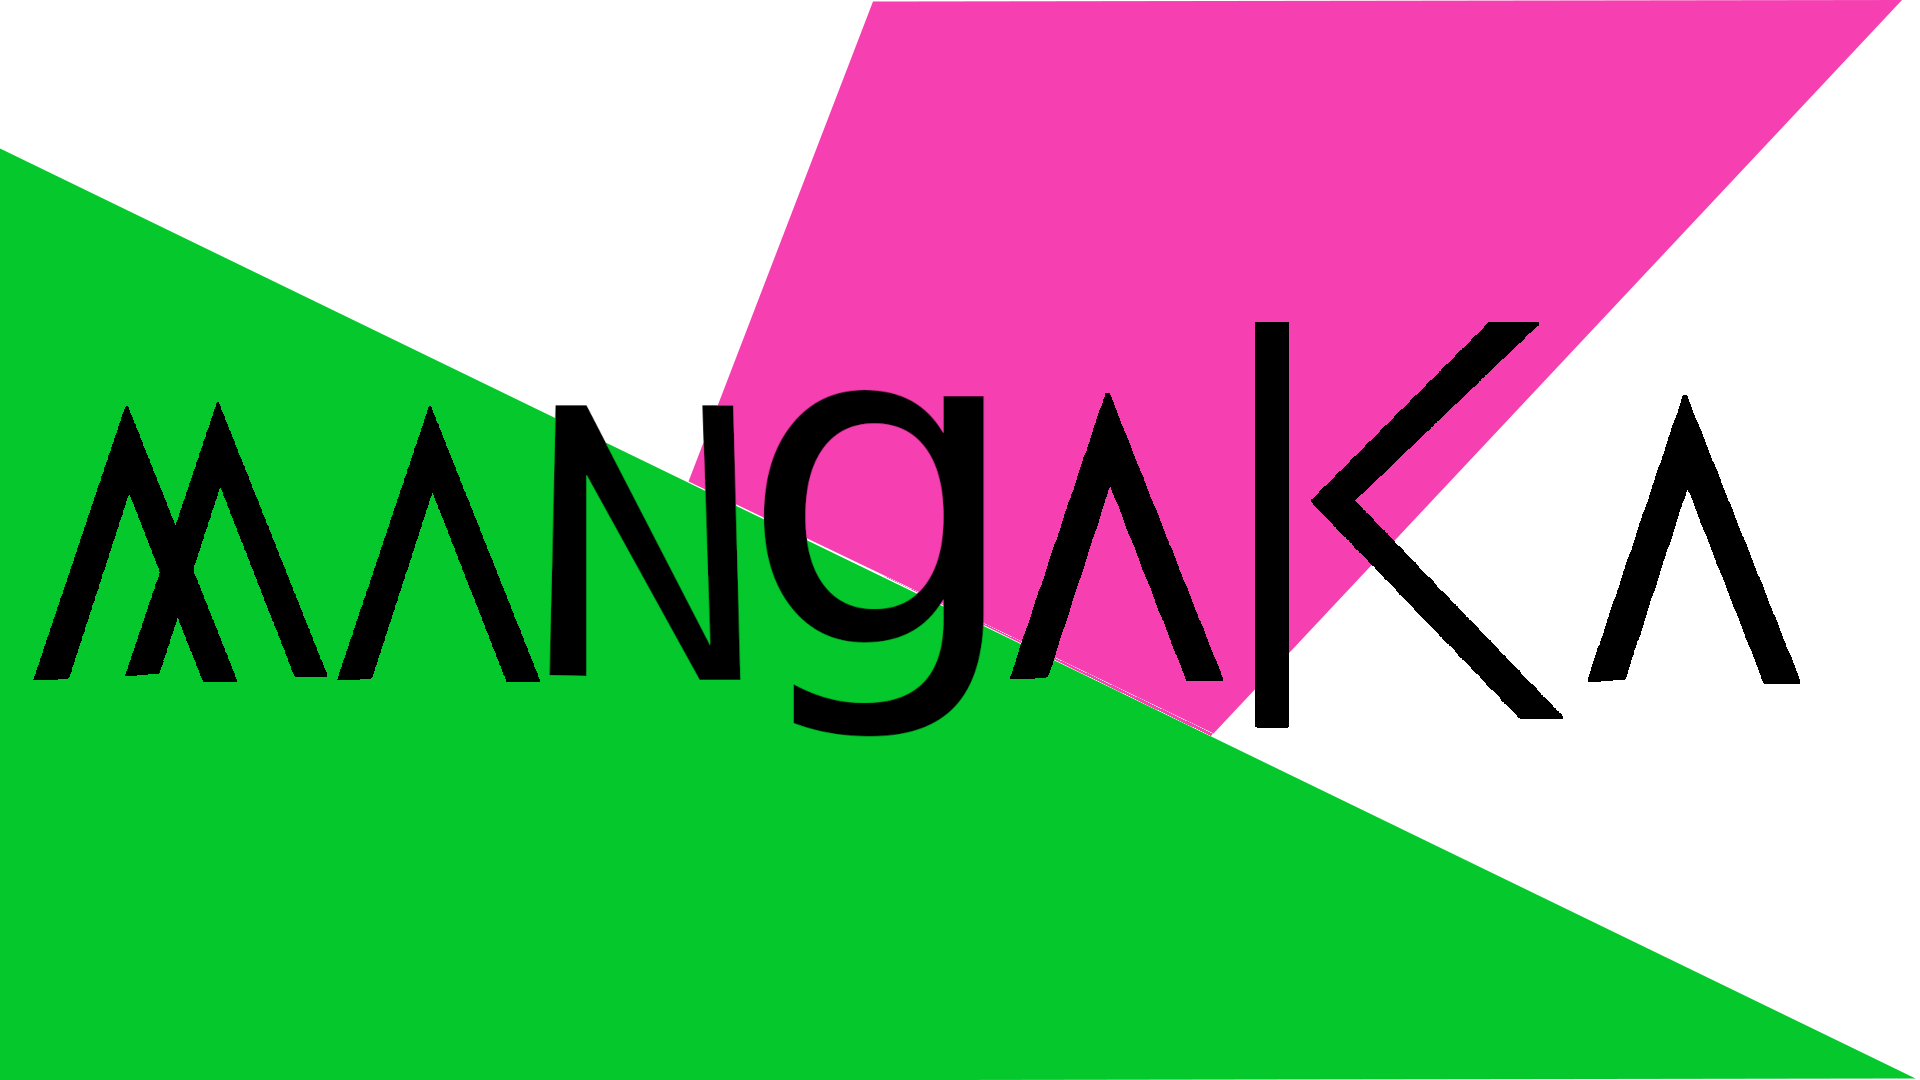
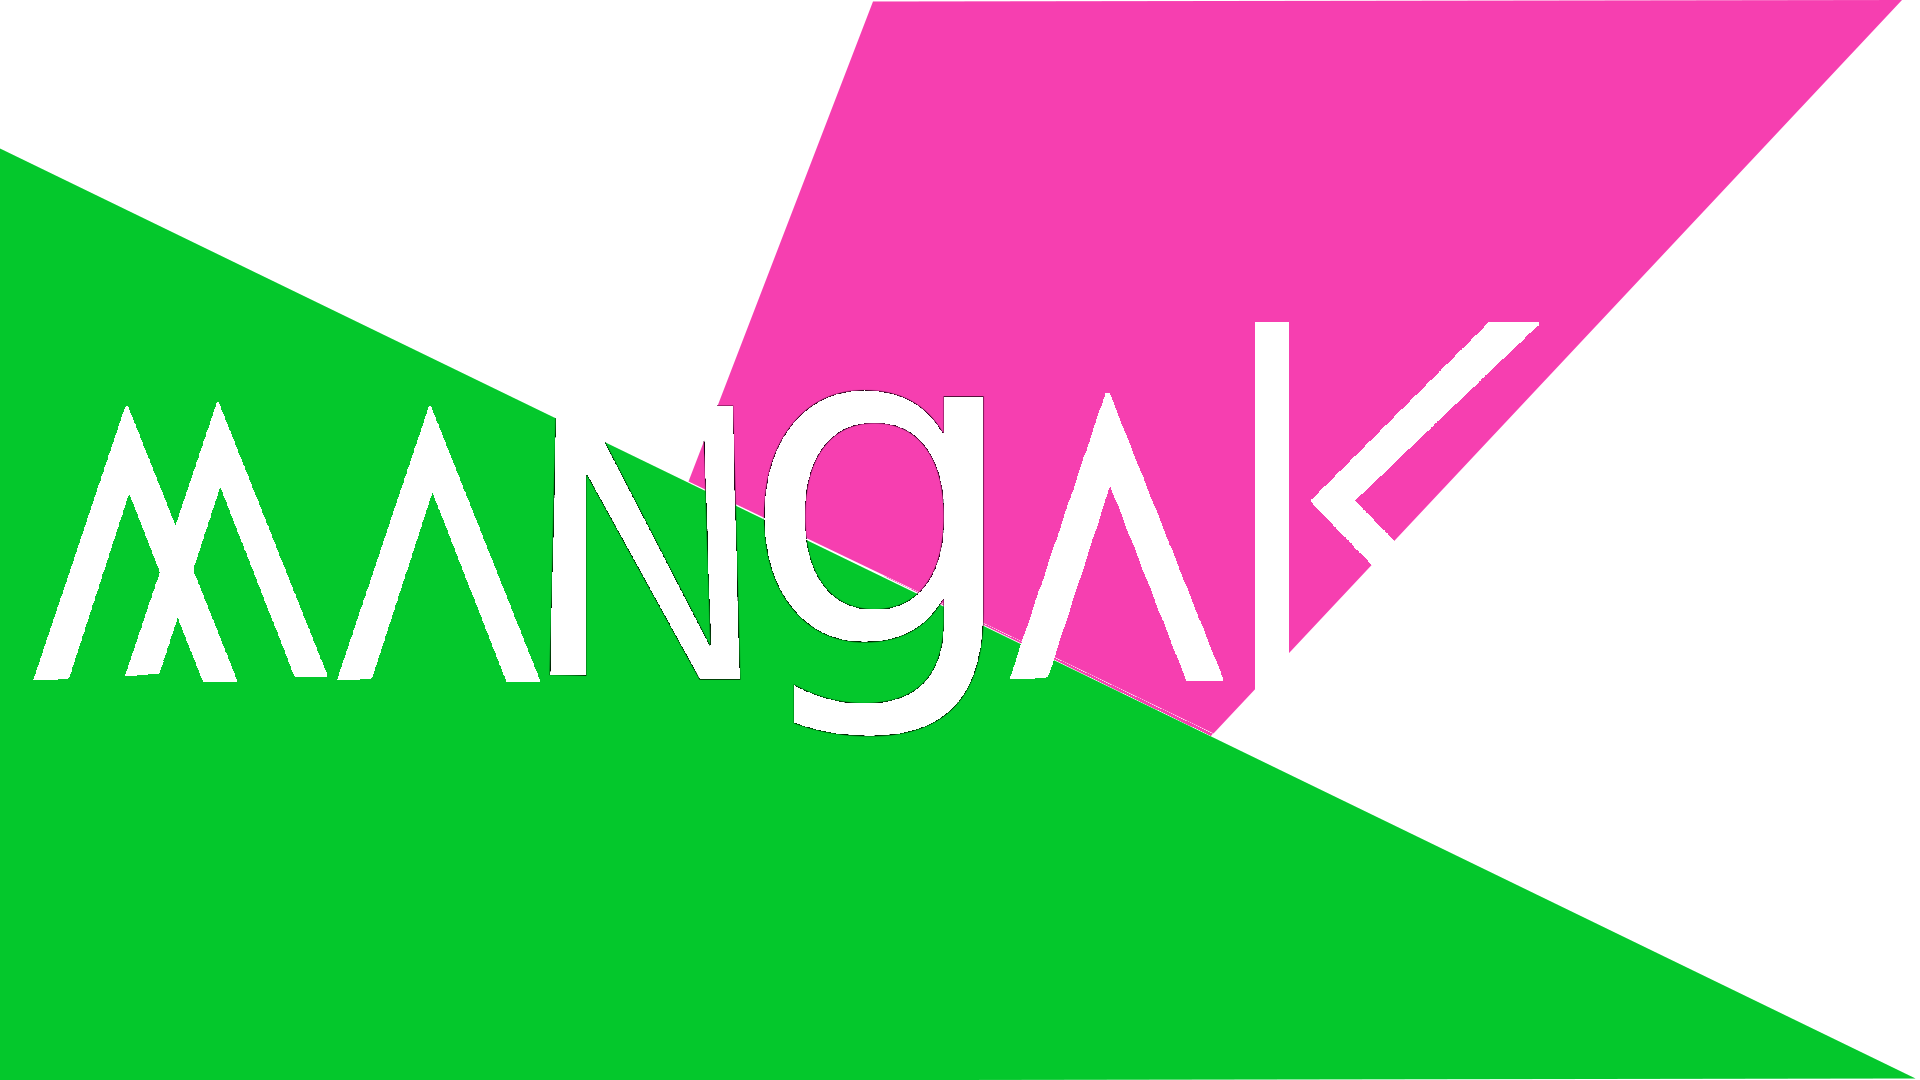
atualização f 1.0
f significa inicio do fim, em breve será componetizado em react.

Changed region(s): [[0.0, 0.275, 0.9375, 0.7028]]

diff --git a/js/index.js b/js/index.js
@@ -1,5 +1,5 @@
 //      LINK PROJECT by @KING.
-const version = 'j experimental 4.2';
+const version = 'f 1.0';
 const lugar = window.document.querySelector('#my_way');
 const local = window.document.querySelector('#pjct');
 const address = ['tsuki-ga-michibiku-isekai-douchuu','kimi-to-boku-no-saigo-no-senjou-aruiwa-sekai-ga-hajimaru-seisen','the-tutorial-tower-of-the-advanced-player','fukushuu-wo-koinegau-saikyou-yuusha-wa-yami-no-chikara-de-senmetsu-musou-suru','black-kanojo','black-clover','apocalyptic-super-system','hataraku-maou-sama','gods-reborn','imamade-ichido-mo-onnaatsukai-sareta-koto-ga-nai-onna-kishi-wo-onnaatsukai-suru-manga','is-there-an-empty-room','a-world-that-i-rule','kage-no-jitsuryokusha-ni-naritakute','koi-ka-mahou-ka-wakaranai','my-girlfriend-is-a-zombie-virus-girlfriend','my-yandere-girlfriend-wont-let-me-rest-in-peace','negai-o-kanaete-moraou-to-akuma-o-shoukan-shitakedo-kawaikattanode-kekkonshimashita-akuma-no-niidzuma','parallel-paradise','rakudai-kenja-no-gakuin-musou-nidome-no-tense-s-rank-cheat-majutsushi-boukenroku','reincarnated-as-an-aristocrat-with-an-appraisal-skill','tensei-kizoku-no-isekai-boukenroku-jichou-wo-shiranai-kamigami-no-shito','strongest-hired-son-in-law','son-in-law-above-them-all','tsumi-to-kai','the-way-to-protect-the-female-lead-s-older-brother','rise-of-the-demon-king','uragirareta-s-rank-boukensha-no-ore-wa-ai-suru-dorei-no-kanojora-to-tomo-ni-dorei-dake-no-harem-guild-wo-tsukuru','tantei-wa-mou-shindeiru','kanojo-mo-kanojo','chainsaw-man','mahouka-koukou-no-rettousei-nyuugaku-hen','i-swear-that-i-love-you','jungle-juice','houkago-no-goumon-shoujo','koibito-wo-netorare-yuusha-party-kara-tsuihou-sa-retakedo-ex-skill-kotei-dameeji-ni-mezamete-muteki-no-sonzai-ni-saa-fukushuu-o-hajimeyou','naze-boku-no-sekai-wo-daremo-oboeteinai-no-ka','my-wife-is-actually-the-emperor','a-pervert-s-daily-life-a-perverts-daily-life','solo-leveling','martial-peak','my-wife-is-a-demon-queen','the-beginning-after-the-end','kaifuku-jutsushi-yarinaoshi','building-owner','giselle-s-blood','i-the-strongest-demon-have-regained-my-youth','mushoku-tensei-isekai-ittara-honki-dasu','ouritsu-mahou-gakuen-no-saikasei-slum-agari-no-saikyou-mahoushi-kizoku-darake-no-gakuen-de-musou-suru','the-second-coming-of-gluttony','tokyo-ghoul','young-boss','wonderful-new-world','my-girlfriend-is-a-dragon','elf-who-likes-to-be-humiliated','i-m-really-not-the-demon-god-s-lackey','hari-dormitory','boarding-diary','prison-lab','two-households','tales-of-demons-and-gods','the-otome-game-s-bad-ending','seeking-the-flying-sword-path','maou-gun-saikyou-no-majutsushi-wa-ningen-datta','spy-family','immortal-swordsman-in-the-reverse-world'];
@@ -87,11 +87,11 @@ async function organizar (response, indice, tempo=0) {
         sub_data.push(response.cod);
         loading_atualization(0.769230769);
         dados.push(sub_data);
-      console.log(dados);
+      //console.log(dados);
         if (response.shortNAME === 'Immortal...') {
           console.log("finalizado!")
-          //no_loading();
-          //home1()
+          no_loading();
+          home1()
         }
     }else{
       organizar(response, indice, 400);
@@ -108,7 +108,7 @@ async function wait (url,indice) {
       loading_atualization(0.769230769);
       organizar(data, indice);
     }
-  console.log('requisições conluidas!')
+  //console.log('requisições conluidas!')
 }
 function import_json () {
   for (let i = 0; i < address.length; ++i) {
@@ -185,18 +185,12 @@ var classmaindiv = window.document.createElement('section');
      //let slc = mtd.rnd();
      maindv.style.backgroundImage=`url(./front/${magnifico[seguinte][1]})`;
      maindv.setAttribute('onclick',`subpage(${magnifico[seguinte][3]})`);
-     console.log(magnifico[seguinte][3]);
+     //console.log(magnifico[seguinte][3]);
      pdr.style.backgroundColor= magnifico[seguinte][2]
      seguinte == (magnifico.length -1) ? seguinte = 0: seguinte++;
-     /*mainp.innerText = '';
-     mainp.innerText = `${dados[slc][2]}`;*/
-     //mainp.setAttribute('class','tituloresponsivo');
-     //let mainmangaf = caminho2 + dados[slc][3];
+    
      maindv.setAttribute('id','principal');
-     //maindv.setAttribute('onclick',`subpage(${slc})`);
      
-     //maindv.appendChild(maindi);
-//maindv.appendChild(mainp);
    },
    stt:() => {
      pdr.style.animation=`trocar1 0.5s linear 1`;
@@ -396,14 +390,10 @@ function headandheart() {
   }
   let menuimage1 = window.document.createElement('img');
   let menuimage2 = window.document.createElement('img');
-  let titulo = window.document.createElement('h1');
-  titulo.setAttribute('class','titulo1')
-  let bspan = window.document.createElement('span');
-  
-  bspan.setAttribute('class','menor')
-  titulo.appendChild(window.document.createTextNode('.link'));
-  bspan.appendChild(window.document.createTextNode('mangás'));
-  titulo.appendChild(bspan);
+  let titulo = window.document.createElement('div');
+  titulo.style.backgroundImage="url('./mangaKa.png')";
+
+  titulo.setAttribute('class','img_titulo');
   
   menuimage1.setAttribute('src','./img-conf/menuwhite.png');
   menuimage1.setAttribute('alt','menuchoose');
@@ -788,12 +778,9 @@ function headandheart() {
    menuinti.setAttribute('class','tamj');
    menuinti.setAttribute('onclick',`menu(999, ${ls}, ${wSv}, ${tpp})`);
    let menuinti2 = window.document.createElement('img');
-   let menuinth = window.document.createElement('h1');
-   menuinth.setAttribute('class','titulo1');
-   let spa = window.document.createElement('span');
-   menuinth.innerHTML = '.link';
-   spa.innerHTML = 'mangás';
-   spa.setAttribute('class','menor');
+   let menuinth = window.document.createElement('div');
+   menuinth.style.backgroundImage="url(./mangaKa.png)";
+   menuinth.setAttribute('class','img_titulo');
    menuinti2.setAttribute('src','./img-conf/doble-arrow.png');
   menuinti2.setAttribute('alt','return');
   //redirecionamento/ voltar
@@ -820,7 +807,6 @@ function headandheart() {
      menud.push(window.document.createElement('div'));
      if(i == 1){
       menud[i].setAttribute('class','cabeca margen2');
-       menuinth.appendChild(spa);
        menud[i].appendChild(menuinth);
        menuint.appendChild(menud[i]);
     }else if(i > 0){
@@ -1230,15 +1216,10 @@ function headandheart() {
    menul.setAttribute('class','maindivmenu');
   }
   //emblema e voltar
-  let ctxt = '.link';
-  let mang = 'mangás';
-  let read = window.document.createElement('span');
-  read.appendChild(window.document.createTextNode(mang));
-  let pronto = window.document.createElement('h1');
-  pronto.innerHTML = ctxt;
-  read.setAttribute('class','sublogo');
-  pronto.appendChild(read);
-  pronto.setAttribute('class','logo inazuma');
+
+  let pronto = window.document.createElement('div');
+  pronto.setAttribute('class','img_titulo');
+  pronto.style.backgroundImage="url(./mangaKa.png)";
   menul.appendChild(pronto);
   //for de opcoes
      for(let i in selct[0]){

diff --git a/index.html b/index.html
@@ -18,10 +18,22 @@
     <link rel="apple-touch-icon" href="./livro-azul.ico"/>
     <link rel="manifest" href="./manifest.json">
     <link rel="stylesheet" href="./css/style.css">
+    <style>
+        #divLogo{
+                width: 70vw;
+                height: 20vh;
+                margin: auto;
+                background-image: url('./mangaKa.png');
+                background-size: contain;
+                background-position: center center;
+                background-repeat: no-repeat;
+                margin-bottom: 10vw;
+            }
+    </style>
 </head>
 <body id="my_way">
     <div id="loader_div_animation">
-        <div id="show_svg" style="background-image: url(./mangaKa.png);"></div>
+        <div id="divLogo"></div>
         <p id="show_no_animate">h</p>
         <div id="loading_is_low"></div>
         <div class="rrel" onclick="recarregar()">reload</div>

diff --git a/css/style.css b/css/style.css
@@ -17,13 +17,7 @@ body{
 #loader_div_animation{
   width: 100%;
   height: 100%;
-  margin-top: 35vh;
-}
-#show_svg{
-  width: 200px;
-  height: 150px;
-  background-size: contain;
-  background-repeat: no-repeat;
+  margin-top: 15vh;
 }
 #loading_is_low{
   display: block;
@@ -138,6 +132,14 @@ margin-top: 10px;
 .margen2{
  float: none;
  height: 54px;
+}
+.img_titulo{
+  width: 110px;
+  height: 57px;
+  margin: auto;
+  background-size: 100% 100%;
+  background-position: center center;
+  background-repeat: no-repeat;
 }
 /*.tituloresponsivo{
   font-size: 26px;

diff --git a/sw3.js b/sw3.js
@@ -1,5 +1,5 @@
 // Criando um nome para o arquivo de cache
-const staticCache = "experimental version4.1";
+const staticCache = "f 1.0";
 
 // Lista de arquivos que devem ser cacheados
 const files = [
